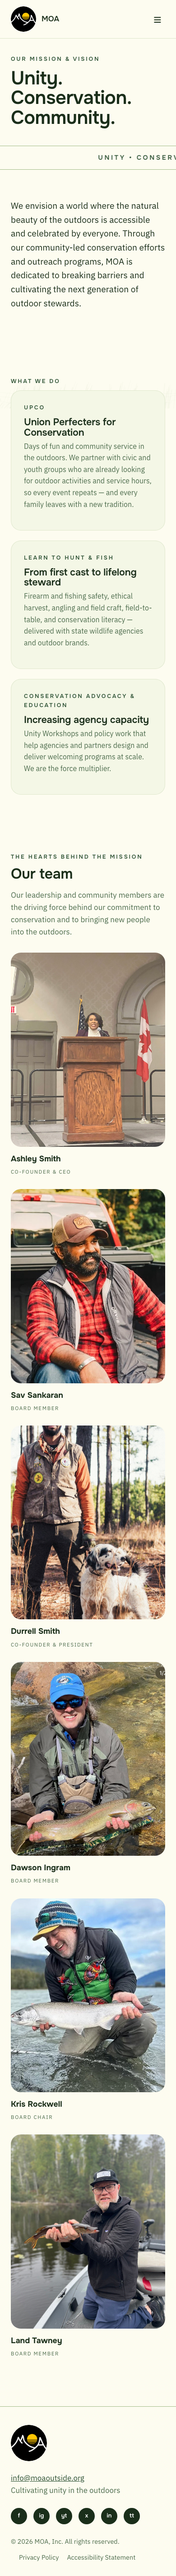
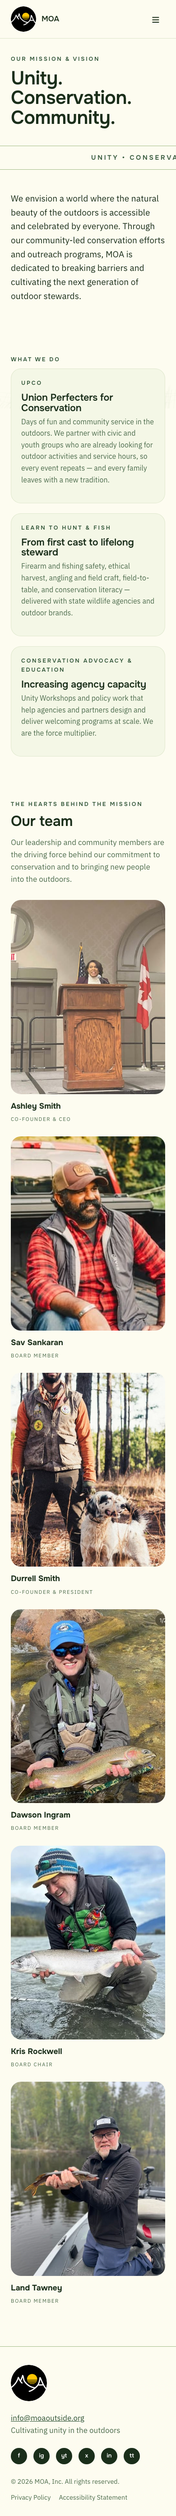
Step 2: design pass — responsive images, focus rings, hover fixes
- srcset/sizes (480–1600w mozjpeg) + width/height on every photo; lazy below the fold,
  fetchpriority=high on the hero. Phones now fetch ~40–130KB instead of 300–600KB.
  WebP tested: within ~0–25% of mozjpeg, not worth a <picture> layer.
- 160px badge for header/footer/favicon (5KB vs 67KB).
- Keyboard: :focus-visible rings (sun on dark panels), skip link, aria-controls,
  Escape closes mobile menu; visible input focus state.
- Hover: sun button no longer turns green-on-forest; light outline button on dark CTA;
  nav, social, legal link hovers. Reduced motion also drops hover lifts + smooth scroll.
- Spacing: fluid section/card padding so mobile cards aren't cramped.
- netlify.toml: drop 1-year immutable cache on unhashed /assets/* (CSS/JS edits
  would have been stuck in browsers); images/logos cache 1 week.

diff --git a/index.html b/index.html
@@ -5,25 +5,26 @@
 <meta name="viewport" content="width=device-width,initial-scale=1">
 <title>Home | MOA</title>
 <meta name="description" content="MOA is a community-led nonprofit cultivating unity in the outdoors through hunting, fishing, and conservation stewardship.">
-<link rel="icon" href="/assets/logos/moa-badge.png">
+<link rel="icon" href="/assets/logos/moa-badge-160.png">
 <meta property="og:title" content="Home | MOA"><meta property="og:description" content="MOA is a community-led nonprofit cultivating unity in the outdoors through hunting, fishing, and conservation stewardship."><meta property="og:image" content="https://moaoutside.org/assets/img/hero-lake.jpg"><meta property="og:url" content="https://moaoutside.org/">
 <link rel="preconnect" href="https://fonts.googleapis.com"><link rel="preconnect" href="https://fonts.gstatic.com" crossorigin>
 <link href="https://fonts.googleapis.com/css2?family=Onest:wght@400;500;600;700&family=IBM+Plex+Sans:ital,wght@0,400;0,500;0,600;1,400&display=swap" rel="stylesheet">
 <link rel="stylesheet" href="/assets/site.css">
 </head>
 <body>
+<a class="skip" href="#main">Skip to content</a>
 <div id="grass" aria-hidden="true"></div>
 <header class="site-header"><div class="wrap">
-  <a class="brand" href="/"><img src="/assets/logos/moa-badge.png" alt="MOA"><span>MOA</span></a>
-  <button class="menu-btn" aria-label="Menu" aria-expanded="false">&#9776;</button>
-  <nav class="nav">
+  <a class="brand" href="/"><img src="/assets/logos/moa-badge-160.png" alt="MOA" width="56" height="56"><span>MOA</span></a>
+  <button class="menu-btn" aria-label="Menu" aria-expanded="false" aria-controls="site-nav">&#9776;</button>
+  <nav class="nav" id="site-nav" aria-label="Main">
     <a href="/" aria-current="page">Home</a>
     <a href="/about-us" >About Us</a>
     <a href="/contact" >Contact</a>
     <a class="btn" href="/contact#donate">Donate</a>
   </nav>
 </div></header>
-<main>
+<main id="main">
 
 <section class="hero"><div class="wrap grid">
   <div>
@@ -31,21 +32,21 @@
     <p>We are a community-led nonprofit dedicated to breaking barriers and fostering stewardship by opening doors for new hunters, anglers, and conservationists.</p>
     <a class="btn" href="/contact">Join the Alliance</a>
   </div>
-  <div class="hero-img"><img src="/assets/img/hero-lake.jpg" alt="Families fishing together at the edge of a lake"><div class="est">Est. 2020</div></div>
+  <div class="hero-img"><img src="/assets/img/hero-lake-1600w.jpg" srcset="/assets/img/hero-lake-480w.jpg 480w, /assets/img/hero-lake-800w.jpg 800w, /assets/img/hero-lake-1200w.jpg 1200w, /assets/img/hero-lake-1600w.jpg 1600w" sizes="(max-width:820px) calc(100vw - 48px), 560px" width="1600" height="1200" fetchpriority="high" alt="Families fishing together at the edge of a lake"><div class="est">Est. 2020</div></div>
 </div></section>
 
 <section><div class="wrap">
   <div class="kicker">Our Core Initiatives</div>
   <h2>Three ways we build a stronger, more welcoming outdoor community.</h2>
   <div class="cards" style="margin-top:32px">
-    <div class="card"><img class="thumb" src="/assets/img/upco-fishing.jpg" alt="A young angler holds up her first fish"><div class="kicker">UPCO</div><h3>Union Perfecters for Conservation</h3><p>Days of fun and community service in the outdoors — family fishing, kayaking, archery, and habitat care, delivered with community groups and state partners.</p><a class="btn outline" href="/about-us#upco">Learn More</a></div>
-    <div class="card"><img class="thumb" src="/assets/img/learn-to-hunt.jpg" alt="A mentor and a first-time hunter in the field"><div class="kicker">Learn to Hunt &amp; Fish</div><h3>Pathways for newcomers</h3><p>Creating pathways for first-time hunters and anglers into outdoor recreation and conservation leadership through education, mentorship, and stewardship.</p><a class="btn outline" href="/about-us#learn">Learn More</a></div>
-    <div class="card"><img class="thumb" src="/assets/img/advocacy.jpg" alt="Ashley Smith speaking at a podium"><div class="kicker">Conservation Advocacy &amp; Education</div><h3>Empowering the next generation</h3><p>Workshops, mentorship, and policy work that equip state agencies, partners, and young leaders to care for our natural resources.</p><a class="btn outline" href="/about-us#advocacy">Learn More</a></div>
+    <div class="card"><img class="thumb" src="/assets/img/upco-fishing-1200w.jpg" srcset="/assets/img/upco-fishing-480w.jpg 480w, /assets/img/upco-fishing-800w.jpg 800w, /assets/img/upco-fishing-1200w.jpg 1200w" sizes="(max-width:900px) calc(100vw - 104px), 330px" width="1200" height="1600" loading="lazy" decoding="async" alt="A young angler holds up her first fish"><div class="kicker">UPCO</div><h3>Union Perfecters for Conservation</h3><p>Days of fun and community service in the outdoors — family fishing, kayaking, archery, and habitat care, delivered with community groups and state partners.</p><a class="btn outline" href="/about-us#upco">Learn More</a></div>
+    <div class="card"><img class="thumb" src="/assets/img/learn-to-hunt-1200w.jpg" srcset="/assets/img/learn-to-hunt-480w.jpg 480w, /assets/img/learn-to-hunt-800w.jpg 800w, /assets/img/learn-to-hunt-1200w.jpg 1200w" sizes="(max-width:900px) calc(100vw - 104px), 330px" width="1200" height="1600" loading="lazy" decoding="async" alt="A mentor and a first-time hunter in the field"><div class="kicker">Learn to Hunt &amp; Fish</div><h3>Pathways for newcomers</h3><p>Creating pathways for first-time hunters and anglers into outdoor recreation and conservation leadership through education, mentorship, and stewardship.</p><a class="btn outline" href="/about-us#learn">Learn More</a></div>
+    <div class="card"><img class="thumb" src="/assets/img/advocacy-1200w.jpg" srcset="/assets/img/advocacy-480w.jpg 480w, /assets/img/advocacy-800w.jpg 800w, /assets/img/advocacy-1200w.jpg 1200w" sizes="(max-width:900px) calc(100vw - 104px), 330px" width="1200" height="1600" loading="lazy" decoding="async" alt="Ashley Smith speaking at a podium"><div class="kicker">Conservation Advocacy &amp; Education</div><h3>Empowering the next generation</h3><p>Workshops, mentorship, and policy work that equip state agencies, partners, and young leaders to care for our natural resources.</p><a class="btn outline" href="/about-us#advocacy">Learn More</a></div>
   </div>
 </div></section>
 
 <section><div class="wrap split">
-  <img src="/assets/img/community-dock.jpg" alt="A community group gathered on a dock before a day on the water">
+  <img src="/assets/img/community-dock-1600w.jpg" srcset="/assets/img/community-dock-480w.jpg 480w, /assets/img/community-dock-800w.jpg 800w, /assets/img/community-dock-1200w.jpg 1200w, /assets/img/community-dock-1600w.jpg 1600w" sizes="(max-width:900px) calc(100vw - 48px), 570px" width="1600" height="1200" loading="lazy" decoding="async" alt="A community group gathered on a dock before a day on the water">
   <div class="card">
     <h2>Cultivating a More Unified Outdoors</h2>
     <p>MOA was born from a collective vision: to ensure that the beauty and benefits of our natural world are accessible to everyone. We believe that true stewardship of our environment begins with participation. By removing barriers to entry and making every newcomer feel at home in the field, we are growing a broad community of conservationists who are ready to lead.</p>
@@ -62,11 +63,11 @@
   <p style="margin-top:20px"><a class="btn outline" data-yt-link href="#" target="_blank" rel="noopener">Subscribe on YouTube</a></p>
 </div></section>
 
-<section><div class="wrap dark" style="padding:56px">
+<section><div class="wrap dark cta">
   <div class="kicker">Ready to Join?</div>
   <h2>Be part of a movement that prioritizes access and stewardship in our natural spaces.</h2>
   <p>Your support helps us build a larger, stronger outdoor community for everyone.</p>
-  <a class="btn sun" href="/contact">Volunteer</a> &nbsp; <a class="btn outline" style="color:#fff;border-color:#fff" href="/contact#donate">Donate</a>
+  <div class="actions"><a class="btn sun" href="/contact">Volunteer</a><a class="btn outline light" href="/contact#donate">Donate</a></div>
 </div></section>
 
 <section><div class="wrap">
@@ -80,7 +81,7 @@
 </main>
 <footer class="site-footer"><div class="wrap">
   <div class="row">
-    <img src="/assets/logos/moa-badge.png" alt="MOA">
+    <img src="/assets/logos/moa-badge-160.png" alt="MOA" width="80" height="80" loading="lazy">
     <div><a href="mailto:info@moaoutside.org">info@moaoutside.org</a><br><span class="muted">Cultivating unity in the outdoors</span></div>
     <div class="social">
       <a data-social="facebook" href="#" aria-label="Facebook">f</a><a data-social="instagram" href="#" aria-label="Instagram">ig</a><a data-social="youtube" href="#" aria-label="YouTube">yt</a><a data-social="x" href="#" aria-label="X">x</a><a data-social="linkedin" href="#" aria-label="LinkedIn">in</a><a data-social="tiktok" href="#" aria-label="TikTok">tt</a>

diff --git a/assets/site.css b/assets/site.css
@@ -15,13 +15,13 @@ h2{font-size:clamp(2rem,4.2vw,3.4rem)}
 h3{font-size:1.35rem}
 p{margin:0 0 1em}
 a{color:var(--green)}
-img{max-width:100%;display:block}
+img{max-width:100%;height:auto;display:block}
 .wrap{width:min(1180px,calc(100% - 48px));margin:0 auto}
 .kicker{font-family:var(--font-head);font-size:.78rem;letter-spacing:.22em;text-transform:uppercase;color:var(--green);font-weight:600;margin-bottom:.6rem}
 .muted{color:var(--muted)}
 .accent{color:var(--green);font-weight:500}
 
-/* ---- grass background layer (drawn by grass.js) ---- */
+/* ---- grass background layer (drawn by site.js drawGrass) ---- */
 #grass{position:fixed;inset:0;z-index:0;pointer-events:none;overflow:hidden}
 #grass svg{position:absolute;left:0;bottom:0;width:100%;height:auto}
 #grass .top{top:0;bottom:auto;transform:scaleY(-1)}
@@ -30,6 +30,14 @@ img{max-width:100%;display:block}
 @media (prefers-reduced-motion:reduce){.blade{animation:none}}
 main,header,footer{position:relative;z-index:1}
 
+/* ---- keyboard focus + skip link ---- */
+:focus-visible{outline:3px solid var(--green);outline-offset:3px;border-radius:6px}
+.btn:focus-visible,.social a:focus-visible{border-radius:999px}
+.dark :focus-visible{outline-color:var(--sun)}
+.skip{position:absolute;left:16px;top:-60px;z-index:50;background:var(--forest);color:#fff;padding:10px 18px;border-radius:999px;font-family:var(--font-head);text-decoration:none;transition:top .15s}
+.skip:focus{top:12px}
+@media (prefers-reduced-motion:reduce){html{scroll-behavior:auto}.btn,.social a{transition:none}.btn:hover,.social a:hover{transform:none}}
+
 /* ---- header ---- */
 .site-header{position:sticky;top:0;z-index:20;background:rgba(253,252,240,.85);backdrop-filter:blur(10px);border-bottom:1px solid rgba(163,188,136,.35)}
 .site-header .wrap{display:flex;align-items:center;justify-content:space-between;height:84px}
@@ -37,14 +45,21 @@ main,header,footer{position:relative;z-index:1}
 .brand img{width:56px;height:56px;border-radius:50%}
 .nav{display:flex;gap:28px;align-items:center}
 .nav a{text-decoration:none;color:var(--forest);font-family:var(--font-head);font-weight:500;font-size:1rem;padding:6px 0;border-bottom:2px solid transparent}
+.nav a:hover{border-bottom-color:var(--line)}
 .nav a[aria-current=page]{border-bottom-color:var(--forest)}
 .nav a.btn{color:#fff;border-bottom:2px solid var(--forest);padding:10px 22px}
-.btn{display:inline-block;background:var(--forest);color:#fff;border-radius:999px;padding:12px 26px;font-family:var(--font-head);font-weight:500;text-decoration:none;font-size:1rem;border:2px solid var(--forest);transition:transform .15s ease,background .15s}
+.nav a.btn:hover{border-color:var(--green)}
+button.btn{cursor:pointer}
+.btn{display:inline-block;background:var(--forest);color:#fff;border-radius:999px;padding:12px 26px;font-family:var(--font-head);font-weight:500;text-decoration:none;font-size:1rem;border:2px solid var(--forest);transition:transform .15s ease,background .15s,color .15s,border-color .15s,box-shadow .15s}
 .btn:hover{transform:translateY(-1px);background:var(--green);border-color:var(--green)}
 .btn.outline{background:transparent;color:var(--forest)}
 .btn.outline:hover{background:var(--forest);color:#fff}
 .btn.sun{background:var(--sun);border-color:var(--sun);color:var(--forest)}
-.menu-btn{display:none;background:none;border:0;font-size:1.6rem;color:var(--forest)}
+.btn.sun:hover{background:var(--sun);border-color:var(--sun);color:var(--forest);box-shadow:0 8px 20px rgba(0,0,0,.22)}
+.btn.light{color:#fff;border-color:#fff}
+.btn.light:hover{background:#fff;border-color:#fff;color:var(--forest)}
+.actions{display:flex;flex-wrap:wrap;gap:12px;margin-top:8px}
+.menu-btn{display:none;background:none;border:0;font-size:1.6rem;color:var(--forest);cursor:pointer;padding:6px 10px;border-radius:12px;line-height:1}
 @media (max-width:820px){
   .nav{display:none;position:absolute;top:84px;left:0;right:0;background:var(--cream);flex-direction:column;padding:18px 24px 26px;border-bottom:1px solid var(--line)}
   .nav.open{display:flex}
@@ -62,9 +77,9 @@ main,header,footer{position:relative;z-index:1}
 @media (max-width:820px){.hero .grid{grid-template-columns:1fr}.hero{padding-top:36px}.est{left:12px}}
 
 /* ---- sections & cards ---- */
-section{padding:64px 0}
+section{padding:clamp(48px,7vw,88px) 0}
 .cards{display:grid;grid-template-columns:repeat(3,1fr);gap:22px}
-.card{background:var(--card);border-radius:var(--radius);padding:28px;border:1px solid rgba(163,188,136,.25)}
+.card{background:var(--card);border-radius:var(--radius);padding:clamp(22px,3vw,28px);border:1px solid rgba(163,188,136,.25)}
 .card img.thumb{border-radius:16px;aspect-ratio:4/3;object-fit:cover;margin-bottom:18px}
 .card h3{margin-bottom:.4rem}
 .card p{color:var(--muted);font-size:1rem}
@@ -73,7 +88,8 @@ section{padding:64px 0}
 .split{display:grid;grid-template-columns:1fr 1fr;gap:40px;align-items:center}
 .split img{border-radius:var(--radius-lg) 0 var(--radius-lg) var(--radius-lg);aspect-ratio:4/5;object-fit:cover;width:100%}
 .split>*{min-width:0}
-.split .card{padding:44px}
+.split .card{padding:clamp(24px,4vw,44px)}
+.dark.cta{padding:clamp(32px,6vw,56px)}
 .card a[href^="mailto:"]{overflow-wrap:anywhere}
 @media (max-width:900px){.split{grid-template-columns:1fr}}
 .dark{background:var(--forest);color:#f4f7e6;border-radius:var(--radius-lg)}
@@ -108,7 +124,9 @@ section{padding:64px 0}
 /* ---- forms ---- */
 form.card{max-width:560px}
 label{display:block;font-family:var(--font-head);font-weight:500;font-size:.95rem;margin:14px 0 6px}
-input,textarea{width:100%;padding:12px 14px;border:1px solid var(--line);border-radius:12px;background:#fff;font:inherit}
+input,textarea{width:100%;padding:12px 14px;border:1px solid var(--line);border-radius:12px;background:#fff;font:inherit;color:var(--ink);transition:border-color .15s,box-shadow .15s}
+input:hover,textarea:hover{border-color:var(--green)}
+input:focus,textarea:focus{outline:none;border-color:var(--green);box-shadow:0 0 0 3px rgba(46,82,53,.25)}
 textarea{min-height:120px}
 
 /* ---- footer ---- */
@@ -116,8 +134,11 @@ textarea{min-height:120px}
 .site-footer .row{display:flex;flex-wrap:wrap;gap:24px;align-items:center;justify-content:space-between}
 .site-footer .row img{width:80px;height:80px;border-radius:50%}
 .social{display:flex;gap:14px}
-.social a{width:36px;height:36px;border-radius:50%;background:var(--forest);color:#fff;display:flex;align-items:center;justify-content:center;text-decoration:none;font-family:var(--font-head);font-size:.8rem;font-weight:600}
+.social a{width:36px;height:36px;border-radius:50%;background:var(--forest);color:#fff;display:flex;align-items:center;justify-content:center;text-decoration:none;font-family:var(--font-head);font-size:.8rem;font-weight:600;transition:background .15s,transform .15s}
+.social a:hover{background:var(--green);transform:translateY(-1px)}
 .legal{display:flex;justify-content:space-between;flex-wrap:wrap;gap:12px;font-size:.9rem;color:var(--muted);margin-top:26px}
-.legal a{color:var(--muted);text-decoration:none;margin-left:18px}
+.legal span:last-child{display:flex;flex-wrap:wrap;gap:18px}
+.legal a{color:var(--muted);text-decoration:none}
+.legal a:hover{color:var(--forest);text-decoration:underline}
 .prose{max-width:760px}
 .prose h2{font-size:1.6rem;margin-top:2rem}

diff --git a/about-us/index.html b/about-us/index.html
@@ -5,25 +5,26 @@
 <meta name="viewport" content="width=device-width,initial-scale=1">
 <title>About Us | MOA</title>
 <meta name="description" content="Meet the team behind MOA and learn about UPCO, Learn to Hunt & Fish, and Conservation Advocacy & Education.">
-<link rel="icon" href="/assets/logos/moa-badge.png">
+<link rel="icon" href="/assets/logos/moa-badge-160.png">
 <meta property="og:title" content="About Us | MOA"><meta property="og:description" content="Meet the team behind MOA and learn about UPCO, Learn to Hunt & Fish, and Conservation Advocacy & Education."><meta property="og:image" content="https://moaoutside.org/assets/img/hero-lake.jpg"><meta property="og:url" content="https://moaoutside.org/about-us">
 <link rel="preconnect" href="https://fonts.googleapis.com"><link rel="preconnect" href="https://fonts.gstatic.com" crossorigin>
 <link href="https://fonts.googleapis.com/css2?family=Onest:wght@400;500;600;700&family=IBM+Plex+Sans:ital,wght@0,400;0,500;0,600;1,400&display=swap" rel="stylesheet">
 <link rel="stylesheet" href="/assets/site.css">
 </head>
 <body>
+<a class="skip" href="#main">Skip to content</a>
 <div id="grass" aria-hidden="true"></div>
 <header class="site-header"><div class="wrap">
-  <a class="brand" href="/"><img src="/assets/logos/moa-badge.png" alt="MOA"><span>MOA</span></a>
-  <button class="menu-btn" aria-label="Menu" aria-expanded="false">&#9776;</button>
-  <nav class="nav">
+  <a class="brand" href="/"><img src="/assets/logos/moa-badge-160.png" alt="MOA" width="56" height="56"><span>MOA</span></a>
+  <button class="menu-btn" aria-label="Menu" aria-expanded="false" aria-controls="site-nav">&#9776;</button>
+  <nav class="nav" id="site-nav" aria-label="Main">
     <a href="/" >Home</a>
     <a href="/about-us" aria-current="page">About Us</a>
     <a href="/contact" >Contact</a>
     <a class="btn" href="/contact#donate">Donate</a>
   </nav>
 </div></header>
-<main>
+<main id="main">
 
 <section class="hero" style="padding-bottom:20px"><div class="wrap">
   <div class="kicker">Our Mission &amp; Vision</div>
@@ -48,19 +49,19 @@
   <h2>Our team</h2>
   <p class="muted" style="max-width:44rem">Our leadership and community members are the driving force behind our commitment to conservation and to bringing new people into the outdoors.</p>
   <div class="team" style="margin-top:32px">
-    <figure><img src="/assets/img/team-ashley-smith.jpg" alt="Ashley Smith"><figcaption><b>Ashley Smith</b><small>Co-Founder &amp; CEO</small></figcaption></figure>
-    <figure><img src="/assets/img/team-sav-sankaran.jpg" alt="Sav Sankaran"><figcaption><b>Sav Sankaran</b><small>Board Member</small></figcaption></figure>
-    <figure><img src="/assets/img/team-durrell-smith.jpg" alt="Durrell Smith"><figcaption><b>Durrell Smith</b><small>Co-Founder &amp; President</small></figcaption></figure>
-    <figure><img src="/assets/img/team-dawson-ingram.jpg" alt="Dawson Ingram"><figcaption><b>Dawson Ingram</b><small>Board Member</small></figcaption></figure>
-    <figure><img src="/assets/img/team-kris-rockwell.jpg" alt="Kris Rockwell"><figcaption><b>Kris Rockwell</b><small>Board Chair</small></figcaption></figure>
-    <figure><img src="/assets/img/team-land-tawney.jpg" alt="Land Tawney"><figcaption><b>Land Tawney</b><small>Board Member</small></figcaption></figure>
+    <figure><img src="/assets/img/team-ashley-smith-1200w.jpg" srcset="/assets/img/team-ashley-smith-480w.jpg 480w, /assets/img/team-ashley-smith-800w.jpg 800w, /assets/img/team-ashley-smith-1200w.jpg 1200w" sizes="(max-width:560px) calc(100vw - 48px), (max-width:900px) calc(50vw - 37px), 376px" width="1200" height="1600" loading="lazy" decoding="async" alt="Ashley Smith"><figcaption><b>Ashley Smith</b><small>Co-Founder &amp; CEO</small></figcaption></figure>
+    <figure><img src="/assets/img/team-sav-sankaran-1170w.jpg" srcset="/assets/img/team-sav-sankaran-480w.jpg 480w, /assets/img/team-sav-sankaran-800w.jpg 800w, /assets/img/team-sav-sankaran-1170w.jpg 1170w" sizes="(max-width:560px) calc(100vw - 48px), (max-width:900px) calc(50vw - 37px), 376px" width="1170" height="799" loading="lazy" decoding="async" alt="Sav Sankaran"><figcaption><b>Sav Sankaran</b><small>Board Member</small></figcaption></figure>
+    <figure><img src="/assets/img/team-durrell-smith-849w.jpg" srcset="/assets/img/team-durrell-smith-480w.jpg 480w, /assets/img/team-durrell-smith-800w.jpg 800w, /assets/img/team-durrell-smith-849w.jpg 849w" sizes="(max-width:560px) calc(100vw - 48px), (max-width:900px) calc(50vw - 37px), 376px" width="849" height="1600" loading="lazy" decoding="async" alt="Durrell Smith"><figcaption><b>Durrell Smith</b><small>Co-Founder &amp; President</small></figcaption></figure>
+    <figure><img src="/assets/img/team-dawson-ingram-1170w.jpg" srcset="/assets/img/team-dawson-ingram-480w.jpg 480w, /assets/img/team-dawson-ingram-800w.jpg 800w, /assets/img/team-dawson-ingram-1170w.jpg 1170w" sizes="(max-width:560px) calc(100vw - 48px), (max-width:900px) calc(50vw - 37px), 376px" width="1170" height="1260" loading="lazy" decoding="async" alt="Dawson Ingram"><figcaption><b>Dawson Ingram</b><small>Board Member</small></figcaption></figure>
+    <figure><img src="/assets/img/team-kris-rockwell-645w.jpg" srcset="/assets/img/team-kris-rockwell-480w.jpg 480w, /assets/img/team-kris-rockwell-645w.jpg 645w" sizes="(max-width:560px) calc(100vw - 48px), (max-width:900px) calc(50vw - 37px), 376px" width="645" height="880" loading="lazy" decoding="async" alt="Kris Rockwell"><figcaption><b>Kris Rockwell</b><small>Board Chair</small></figcaption></figure>
+    <figure><img src="/assets/img/team-land-tawney-1200w.jpg" srcset="/assets/img/team-land-tawney-480w.jpg 480w, /assets/img/team-land-tawney-800w.jpg 800w, /assets/img/team-land-tawney-1200w.jpg 1200w" sizes="(max-width:560px) calc(100vw - 48px), (max-width:900px) calc(50vw - 37px), 376px" width="1200" height="1600" loading="lazy" decoding="async" alt="Land Tawney"><figcaption><b>Land Tawney</b><small>Board Member</small></figcaption></figure>
   </div>
 </div></section>
 
 </main>
 <footer class="site-footer"><div class="wrap">
   <div class="row">
-    <img src="/assets/logos/moa-badge.png" alt="MOA">
+    <img src="/assets/logos/moa-badge-160.png" alt="MOA" width="80" height="80" loading="lazy">
     <div><a href="mailto:info@moaoutside.org">info@moaoutside.org</a><br><span class="muted">Cultivating unity in the outdoors</span></div>
     <div class="social">
       <a data-social="facebook" href="#" aria-label="Facebook">f</a><a data-social="instagram" href="#" aria-label="Instagram">ig</a><a data-social="youtube" href="#" aria-label="YouTube">yt</a><a data-social="x" href="#" aria-label="X">x</a><a data-social="linkedin" href="#" aria-label="LinkedIn">in</a><a data-social="tiktok" href="#" aria-label="TikTok">tt</a>

diff --git a/privacy-policy/index.html b/privacy-policy/index.html
@@ -5,30 +5,31 @@
 <meta name="viewport" content="width=device-width,initial-scale=1">
 <title>Privacy Policy | MOA</title>
 <meta name="description" content="MOA privacy policy.">
-<link rel="icon" href="/assets/logos/moa-badge.png">
+<link rel="icon" href="/assets/logos/moa-badge-160.png">
 <meta property="og:title" content="Privacy Policy | MOA"><meta property="og:description" content="MOA privacy policy."><meta property="og:image" content="https://moaoutside.org/assets/img/hero-lake.jpg"><meta property="og:url" content="https://moaoutside.org/privacy-policy">
 <link rel="preconnect" href="https://fonts.googleapis.com"><link rel="preconnect" href="https://fonts.gstatic.com" crossorigin>
 <link href="https://fonts.googleapis.com/css2?family=Onest:wght@400;500;600;700&family=IBM+Plex+Sans:ital,wght@0,400;0,500;0,600;1,400&display=swap" rel="stylesheet">
 <link rel="stylesheet" href="/assets/site.css">
 </head>
 <body>
+<a class="skip" href="#main">Skip to content</a>
 <div id="grass" aria-hidden="true"></div>
 <header class="site-header"><div class="wrap">
-  <a class="brand" href="/"><img src="/assets/logos/moa-badge.png" alt="MOA"><span>MOA</span></a>
-  <button class="menu-btn" aria-label="Menu" aria-expanded="false">&#9776;</button>
-  <nav class="nav">
+  <a class="brand" href="/"><img src="/assets/logos/moa-badge-160.png" alt="MOA" width="56" height="56"><span>MOA</span></a>
+  <button class="menu-btn" aria-label="Menu" aria-expanded="false" aria-controls="site-nav">&#9776;</button>
+  <nav class="nav" id="site-nav" aria-label="Main">
     <a href="/" >Home</a>
     <a href="/about-us" >About Us</a>
     <a href="/contact" >Contact</a>
     <a class="btn" href="/contact#donate">Donate</a>
   </nav>
 </div></header>
-<main>
+<main id="main">
 <section><div class="wrap prose"><div class="kicker">Legal</div><h1 style="font-size:2.6rem">Privacy Policy</h1><p>MOA, Inc. collects only the information you choose to share with us — such as your name, email address, and phone number when you subscribe to our newsletter or contact us. We use it to respond to you and to send occasional updates about our programs. We never sell or share your personal information with third parties for their own marketing.</p><p>Our site uses privacy-respecting embeds (YouTube no-cookie mode) and does not run advertising trackers. To update or delete your information, email <a href="mailto:info@moaoutside.org">info@moaoutside.org</a>.</p><p class="muted">Last updated: September 2026. This page is a starting template — have it reviewed before publishing.</p></div></section>
 </main>
 <footer class="site-footer"><div class="wrap">
   <div class="row">
-    <img src="/assets/logos/moa-badge.png" alt="MOA">
+    <img src="/assets/logos/moa-badge-160.png" alt="MOA" width="80" height="80" loading="lazy">
     <div><a href="mailto:info@moaoutside.org">info@moaoutside.org</a><br><span class="muted">Cultivating unity in the outdoors</span></div>
     <div class="social">
       <a data-social="facebook" href="#" aria-label="Facebook">f</a><a data-social="instagram" href="#" aria-label="Instagram">ig</a><a data-social="youtube" href="#" aria-label="YouTube">yt</a><a data-social="x" href="#" aria-label="X">x</a><a data-social="linkedin" href="#" aria-label="LinkedIn">in</a><a data-social="tiktok" href="#" aria-label="TikTok">tt</a>

diff --git a/accessibility-statement/index.html b/accessibility-statement/index.html
@@ -5,30 +5,31 @@
 <meta name="viewport" content="width=device-width,initial-scale=1">
 <title>Accessibility Statement | MOA</title>
 <meta name="description" content="MOA accessibility statement.">
-<link rel="icon" href="/assets/logos/moa-badge.png">
+<link rel="icon" href="/assets/logos/moa-badge-160.png">
 <meta property="og:title" content="Accessibility Statement | MOA"><meta property="og:description" content="MOA accessibility statement."><meta property="og:image" content="https://moaoutside.org/assets/img/hero-lake.jpg"><meta property="og:url" content="https://moaoutside.org/accessibility-statement">
 <link rel="preconnect" href="https://fonts.googleapis.com"><link rel="preconnect" href="https://fonts.gstatic.com" crossorigin>
 <link href="https://fonts.googleapis.com/css2?family=Onest:wght@400;500;600;700&family=IBM+Plex+Sans:ital,wght@0,400;0,500;0,600;1,400&display=swap" rel="stylesheet">
 <link rel="stylesheet" href="/assets/site.css">
 </head>
 <body>
+<a class="skip" href="#main">Skip to content</a>
 <div id="grass" aria-hidden="true"></div>
 <header class="site-header"><div class="wrap">
-  <a class="brand" href="/"><img src="/assets/logos/moa-badge.png" alt="MOA"><span>MOA</span></a>
-  <button class="menu-btn" aria-label="Menu" aria-expanded="false">&#9776;</button>
-  <nav class="nav">
+  <a class="brand" href="/"><img src="/assets/logos/moa-badge-160.png" alt="MOA" width="56" height="56"><span>MOA</span></a>
+  <button class="menu-btn" aria-label="Menu" aria-expanded="false" aria-controls="site-nav">&#9776;</button>
+  <nav class="nav" id="site-nav" aria-label="Main">
     <a href="/" >Home</a>
     <a href="/about-us" >About Us</a>
     <a href="/contact" >Contact</a>
     <a class="btn" href="/contact#donate">Donate</a>
   </nav>
 </div></header>
-<main>
+<main id="main">
 <section><div class="wrap prose"><div class="kicker">Accessibility</div><h1 style="font-size:2.6rem">Accessibility Statement</h1><p>MOA, Inc. is committed to making the outdoors — and this website — welcoming to everyone. We aim to meet WCAG 2.1 AA guidelines: readable contrast, keyboard navigation, descriptive image text, and reduced-motion support (the background animation stops when your device requests reduced motion).</p><p>If you have trouble using any part of this site, email <a href="mailto:info@moaoutside.org">info@moaoutside.org</a> and we will help.</p></div></section>
 </main>
 <footer class="site-footer"><div class="wrap">
   <div class="row">
-    <img src="/assets/logos/moa-badge.png" alt="MOA">
+    <img src="/assets/logos/moa-badge-160.png" alt="MOA" width="80" height="80" loading="lazy">
     <div><a href="mailto:info@moaoutside.org">info@moaoutside.org</a><br><span class="muted">Cultivating unity in the outdoors</span></div>
     <div class="social">
       <a data-social="facebook" href="#" aria-label="Facebook">f</a><a data-social="instagram" href="#" aria-label="Instagram">ig</a><a data-social="youtube" href="#" aria-label="YouTube">yt</a><a data-social="x" href="#" aria-label="X">x</a><a data-social="linkedin" href="#" aria-label="LinkedIn">in</a><a data-social="tiktok" href="#" aria-label="TikTok">tt</a>

diff --git a/contact/index.html b/contact/index.html
@@ -5,25 +5,26 @@
 <meta name="viewport" content="width=device-width,initial-scale=1">
 <title>Contact | MOA</title>
 <meta name="description" content="Partner with MOA, ask about upcoming events, or subscribe to the newsletter.">
-<link rel="icon" href="/assets/logos/moa-badge.png">
+<link rel="icon" href="/assets/logos/moa-badge-160.png">
 <meta property="og:title" content="Contact | MOA"><meta property="og:description" content="Partner with MOA, ask about upcoming events, or subscribe to the newsletter."><meta property="og:image" content="https://moaoutside.org/assets/img/hero-lake.jpg"><meta property="og:url" content="https://moaoutside.org/contact">
 <link rel="preconnect" href="https://fonts.googleapis.com"><link rel="preconnect" href="https://fonts.gstatic.com" crossorigin>
 <link href="https://fonts.googleapis.com/css2?family=Onest:wght@400;500;600;700&family=IBM+Plex+Sans:ital,wght@0,400;0,500;0,600;1,400&display=swap" rel="stylesheet">
 <link rel="stylesheet" href="/assets/site.css">
 </head>
 <body>
+<a class="skip" href="#main">Skip to content</a>
 <div id="grass" aria-hidden="true"></div>
 <header class="site-header"><div class="wrap">
-  <a class="brand" href="/"><img src="/assets/logos/moa-badge.png" alt="MOA"><span>MOA</span></a>
-  <button class="menu-btn" aria-label="Menu" aria-expanded="false">&#9776;</button>
-  <nav class="nav">
+  <a class="brand" href="/"><img src="/assets/logos/moa-badge-160.png" alt="MOA" width="56" height="56"><span>MOA</span></a>
+  <button class="menu-btn" aria-label="Menu" aria-expanded="false" aria-controls="site-nav">&#9776;</button>
+  <nav class="nav" id="site-nav" aria-label="Main">
     <a href="/" >Home</a>
     <a href="/about-us" >About Us</a>
     <a href="/contact" aria-current="page">Contact</a>
     <a class="btn" href="/contact#donate">Donate</a>
   </nav>
 </div></header>
-<main>
+<main id="main">
 
 <section class="hero" style="padding-bottom:20px"><div class="wrap">
   <div class="kicker">Connect</div>
@@ -52,7 +53,7 @@
 </main>
 <footer class="site-footer"><div class="wrap">
   <div class="row">
-    <img src="/assets/logos/moa-badge.png" alt="MOA">
+    <img src="/assets/logos/moa-badge-160.png" alt="MOA" width="80" height="80" loading="lazy">
     <div><a href="mailto:info@moaoutside.org">info@moaoutside.org</a><br><span class="muted">Cultivating unity in the outdoors</span></div>
     <div class="social">
       <a data-social="facebook" href="#" aria-label="Facebook">f</a><a data-social="instagram" href="#" aria-label="Instagram">ig</a><a data-social="youtube" href="#" aria-label="YouTube">yt</a><a data-social="x" href="#" aria-label="X">x</a><a data-social="linkedin" href="#" aria-label="LinkedIn">in</a><a data-social="tiktok" href="#" aria-label="TikTok">tt</a>

diff --git a/assets/site.js b/assets/site.js
@@ -56,7 +56,10 @@
 
   // ---------- Mobile nav ----------
   const btn = document.querySelector('.menu-btn'), nav = document.querySelector('.nav');
-  if (btn && nav) btn.addEventListener('click', () => { nav.classList.toggle('open'); btn.setAttribute('aria-expanded', nav.classList.contains('open')); });
+  if (btn && nav) {
+    btn.addEventListener('click', () => { nav.classList.toggle('open'); btn.setAttribute('aria-expanded', nav.classList.contains('open')); });
+    document.addEventListener('keydown', e => { if (e.key === 'Escape' && nav.classList.contains('open')) { nav.classList.remove('open'); btn.setAttribute('aria-expanded', 'false'); btn.focus(); } });
+  }
 
   // ---------- YouTube ----------
   const vid = document.getElementById('yt-embed');
